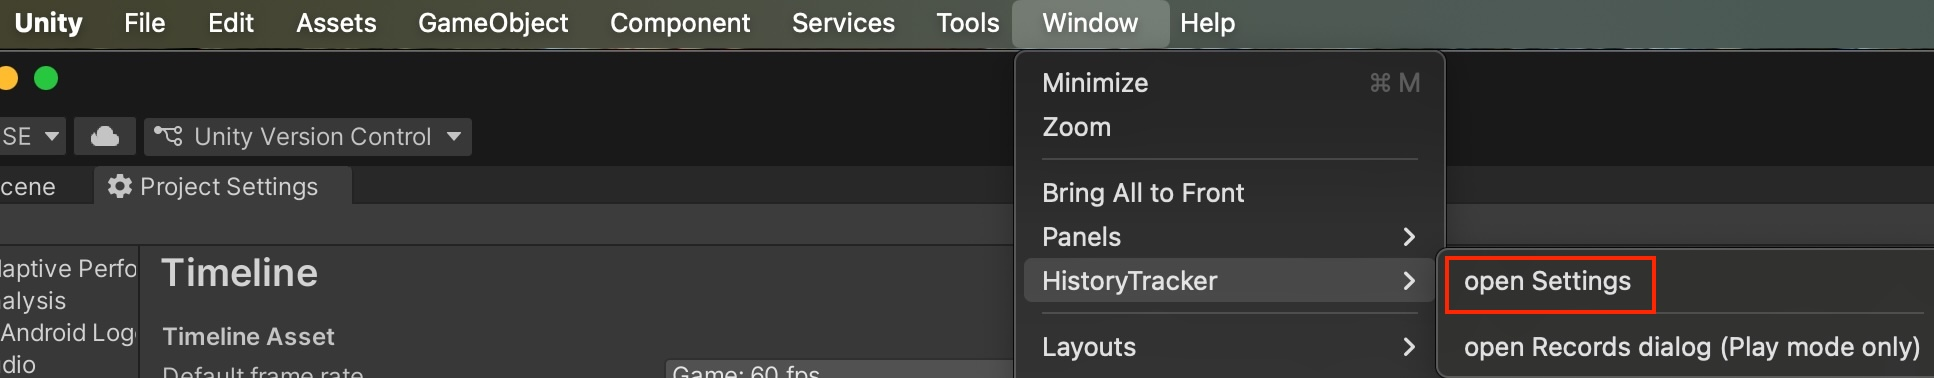
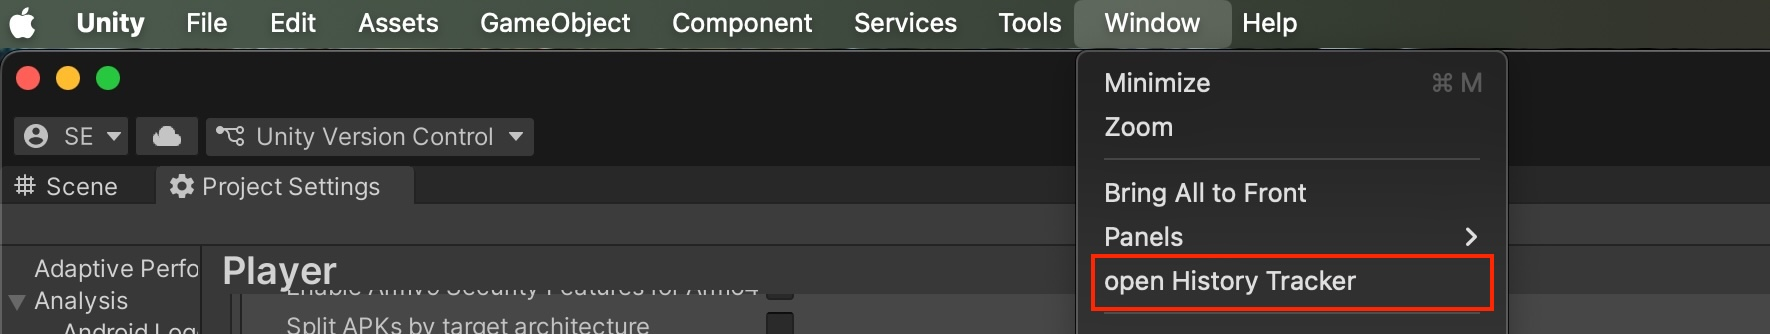
v1.3.0 (#46)
* feat: add workflow to update v1 major tag

* refactor: update IdGenerator to improve type consistency

* feat: add History Recorder

* feat: add Id text

* clean up whitespace in HistRecords model

* add history record updates for test data

* feat: update settings documentation and image

* fix: update plugin settings and menu references

diff --git a/Packages/HistoryTracker/Editor/Scripts/UI/HistSettingsWindow.cs b/Packages/HistoryTracker/Editor/Scripts/UI/HistSettingsWindow.cs
@@ -5,7 +5,7 @@ using UnityEngine;
 
 namespace HistoryTracker.Editor
 {
-    internal class HistSettingsWindow : EditorWindow
+    internal sealed class HistSettingsWindow : EditorWindow
     {
         public const string PackagePath = "Packages/" + _packageName + "/";
         const string _gitURL = "https://github.com/IShix-g/HistoryTracker";
@@ -14,12 +14,23 @@ namespace HistoryTracker.Editor
         const string _packageName = "com.ishix.history.tracker";
         const string _logoPath = PackagePath + "Editor/Textures/historyTrackerLogo.png";
 
-        [MenuItem("Window/HistoryTracker/open Settings", priority = 0)]
+        [MenuItem("Window/open History Tracker", priority = 0)]
         static void ShowWindow()
         {
             var window = GetWindow<HistSettingsWindow>();
-            window.titleContent = new GUIContent("HistoryTracker Settings");
+            window.titleContent = new GUIContent("History Tracker");
             window.Show();
+        }
+
+        string Title
+        {
+            get => EditorPrefs.GetString("HistSettingsWindow_Title");
+            set => EditorPrefs.SetString("HistSettingsWindow_Title", value);
+        }
+        string Description
+        {
+            get => EditorPrefs.GetString("HistSettingsWindow_Description");
+            set => EditorPrefs.SetString("HistSettingsWindow_Description", value);
         }
 
         readonly PackageVersionChecker _versionChecker = new (_gitInstallUrl, _gitBranchName, _packageName);
@@ -28,10 +39,15 @@ namespace HistoryTracker.Editor
         GUIContent _updateIcon;
         GUIContent _helpHeader;
         bool _hasNewVersion;
+        bool _showSettings = true;
+        string _title;
+        string _description;
         readonly CancellationTokenSource _tokenSource = new ();
 
         void OnEnable()
         {
+            _title = Title;
+            _description = Description;
             _logo = AssetDatabase.LoadAssetAtPath<Texture2D>(_logoPath);
             _updateIcon = EditorGUIUtility.IconContent("CloudConnect");
             _helpHeader = EditorGUIUtility.IconContent("Help");
@@ -45,6 +61,8 @@ namespace HistoryTracker.Editor
 
         void OnDestroy()
         {
+            Title = _title;
+            Description = _description;
             _logo = null;
             _updateIcon = null;
             _helpHeader = null;
@@ -129,19 +147,75 @@ namespace HistoryTracker.Editor
             }
 
             _settingsObject.Update();
-            var property = _settingsObject.GetIterator();
-            property.NextVisible(true);
-            while (property.NextVisible(false))
+            _showSettings = EditorGUILayout.Foldout(_showSettings, "Build Setting", true);
+            if (_showSettings)
             {
-                EditorGUILayout.PropertyField(property, true);
+                var style = new GUIStyle()
+                {
+                    padding = new RectOffset(10, 10, 10, 10)
+                };
+                GUILayout.BeginVertical(style);
+                var property = _settingsObject.GetIterator();
+                property.NextVisible(true);
+                while (property.NextVisible(false))
+                {
+                    EditorGUILayout.PropertyField(property, true);
+                }
+                GUILayout.EndVertical();
             }
             _settingsObject.ApplyModifiedProperties();
 
             {
+                var wrapStyle = new GUIStyle(GUI.skin.box)
+                {
+                    padding = new RectOffset(10, 10, 10, 10),
+                    margin = new RectOffset(0, 0, 5, 5)
+                };
+                GUILayout.BeginVertical(wrapStyle);
+                var textStyle = new GUIStyle(GUI.skin.label)
+                {
+                    alignment = TextAnchor.MiddleCenter,
+                    margin = new RectOffset(0, 0, 0, 5)
+                };
+                GUILayout.Label("History Recorder\n(Play mode only)", textStyle);
+
+                EditorGUILayout.HelpBox("(Optional) Add a title and description.", MessageType.Info);
+                _title = EditorGUILayout.TextField("Title", _title);
+                _description = EditorGUILayout.TextField("Description", _description);
+
+                var buttonStyle = new GUIStyle(GUI.skin.button)
+                {
+                    padding = new RectOffset(5, 5, 5, 5),
+                    margin = new RectOffset(0, 0, 10, 0)
+                };
+                if (GUILayout.Button("Save", buttonStyle))
+                {
+                    if (Application.isPlaying)
+                    {
+                        var info = default(HistRecordInfo);
+                        if (!string.IsNullOrEmpty(_title)
+                            || !string.IsNullOrEmpty(_description))
+                        {
+                            info = new HistRecordInfo(_title, _description);
+                        }
+                        Hist.SaveHistory(info);
+                    }
+                    else
+                    {
+                        EditorUtility.DisplayDialog(
+                            "History Tracker",
+                            "Can only be saved in Play mode.",
+                            "OK"
+                        );
+                    }
+                }
+                GUILayout.EndVertical();
+            }
+
+            {
                 var style = new GUIStyle(GUI.skin.label)
                 {
-                    alignment = TextAnchor.MiddleRight,
-                    margin = new RectOffset(0, 0, 5, 0)
+                    alignment = TextAnchor.MiddleRight
                 };
                 var pluginVersion = _versionChecker.IsLoaded ? _versionChecker.LocalInfo.VersionString : "---";
                 GUILayout.Label(pluginVersion, style);

diff --git a/Packages/HistoryTracker/RunTime/Scripts/Utils/IdGenerator.cs b/Packages/HistoryTracker/RunTime/Scripts/Utils/IdGenerator.cs
@@ -9,20 +9,20 @@ namespace HistoryTracker
         const string _base62Chars = "0123456789abcdefghijklmnopqrstuvwxyzABCDEFGHIJKLMNOPQRSTUVWXYZ";
         static readonly DateTime s_epoch = new (2020, 1, 1, 0, 0, 0, DateTimeKind.Utc);
         static int s_sequence;
-        
+
         public static string NewId(int machineId)
         {
             var now = DateTime.UtcNow;
-            var ms = (long)(now - s_epoch).TotalMilliseconds;
+            var ms = (ulong)(now - s_epoch).TotalMilliseconds;
             var seq = Interlocked.Increment(ref s_sequence) & 0xFFFF;
             var timePart = ms & 0xFFFFFFFFFFFFL;
-            var machinePart = (long)(machineId & 0xFFFF);
-            var seqPart = (long)(seq & 0xFFFF);
-            var value = (timePart << 32) | (machinePart << 16) | seqPart;
+            var machinePart = (ulong)(machineId & 0xFFFF);
+            var seqPart = (ulong)(seq & 0xFFFF);
+            var value = (timePart << 24) | (machinePart << 8) | seqPart;
             return ToBase62(value);
         }
-        
-        static string ToBase62(long value)
+
+        static string ToBase62(ulong value)
         {
             if (value == 0)
             {

diff --git a/Packages/HistoryTracker/RunTime/Scripts/Models/HistRecords.cs b/Packages/HistoryTracker/RunTime/Scripts/Models/HistRecords.cs
@@ -13,7 +13,7 @@ namespace HistoryTracker
     {
         [SerializeField] List<HistRecord> _records;
         [SerializeField] int _machineId;
-        
+
         public int Length => _records.Count;
         public bool HasRecords => Length > 0;
         public int MachineId => _machineId;
@@ -34,15 +34,15 @@ namespace HistoryTracker
             var random = new Random(seed);
             _machineId = random.Next(1, 1_000_000);
         }
-        
-        public bool HasRecord(string id) => GetById(id) != null;        
+
+        public bool HasRecord(string id) => GetById(id) != null;
 
         public HistRecord GetAt(int index) => _records[index];
-        
+
         public HistRecord GetReverseAt(int index) => _records[(_records.Count - 1) - index];
 
         public HistRecord GetById(string id) => _records.Find(x => x.Id == id);
-        
+
         public HistRecord Create()
         {
             var id = IdGenerator.NewId(_machineId);
@@ -87,7 +87,7 @@ namespace HistoryTracker
 
         IEnumerator IEnumerable.GetEnumerator() => GetEnumerator();
     }
-    
+
     [Serializable]
     internal sealed class HistRecord
     {

diff --git a/Packages/HistoryTracker/RunTime/Scripts/UI/RecordPopUpHistDialog.cs b/Packages/HistoryTracker/RunTime/Scripts/UI/RecordPopUpHistDialog.cs
@@ -14,6 +14,7 @@ namespace HistoryTracker
         [SerializeField] Button _restoreButton;
         [SerializeField] Button _deleteButton;
         [SerializeField] Button _closeButton;
+        [SerializeField] Text _idText;
         [SerializeField] Text _titleText;
         [SerializeField] Text _descriptionText;
         [SerializeField] Text _dateText;
@@ -45,6 +46,7 @@ namespace HistoryTracker
 
         protected override void OnOpenInternal()
         {
+            _idText.text = "ID:" + Record.Id;
             _titleText.text = Record.Title;
             _descriptionText.text = Record.Description;
             _titleInput.text = Record.Title;

diff --git a/Packages/HistoryTracker/Editor/Scripts/UI/HistoryPopUpHistDialogMenu.cs b/Packages/HistoryTracker/Editor/Scripts/UI/HistoryPopUpHistDialogMenu.cs
@@ -6,7 +6,6 @@ namespace HistoryTracker.Editor
 {
     internal sealed class HistoryPopUpHistDialogMenu
     {
-        [MenuItem("Window/HistoryTracker/open History dialog (Play mode only)")]
         public static void ShowDialog()
         {
             if (Application.isPlaying)

diff --git a/README.md b/README.md
@@ -196,7 +196,7 @@ Displays a list of saved history.
 | ⑥  | Next Page            |
 | ⑦  | Close                |
 
-### 詳細
+### Details
 
 Details and operations for saved game data.
 
@@ -215,23 +215,24 @@ Details and operations for saved game data.
 
 * Note: On actual devices, you cannot edit data generated in the Editor.
 
-## Plugin Settings
+## Plugin Settings / History Recorder
 
 By default, this plugin operates only in the debug environment. You can adjust this in the settings.
 
-### Open via `Window > HistoryTracker > open Settings`
+### Open via `Window > open History Tracker`
 <img src="Docs/menu.jpg" width="700"/>
 
-### Settings
+### Dialog
 
-<img src="Docs/settings.jpg" width="400"/>
+<img src="Docs/settings.jpg" width="450"/>
 
-| No | Description                                         |
-|----|-----------------------------------------------------|
-| ①  | Show GitHub Page (External Link)                    |
-| ②  | Open History Dialog (Runtime only)                  |
-| ③  | Plugin Scope (EditorOnly / DevelopmentBuild / All) |
-| ④  | Use game data saved in Editor on actual device?        |
+| No | Description |
+|----|-----------------------------------------------------------------------------------|
+| ①  | Show GitHub Page (External Link)                                                  |
+| ②  | Open History Dialog (Runtime only)                                                |
+| ③  | Plugin Scope (EditorOnly / DevelopmentBuild / All)                                |
+| ④  | Use game data saved in Editor on actual device?                                   |
+| ⑤  | Enable adding title and description to History Dialog save feature (Runtime only) |
 
 ## Saving Game Data via Script
 

diff --git a/Docs/README_jp.md b/Docs/README_jp.md
@@ -210,23 +210,24 @@ void OnDialogButtonClicked()
 
 * 実機の場合、Editorで生成されたデータを編集できません。
 
-## プラグインの設定
+## プラグインの設定 / History Recorder
 
 このプラグインは、デフォルトでデバック環境でのみ動作します。それを設定で調整できます。
 
-### `Window > HistoryTracker > open Settings`で開く
+### `Window > open History Tracker`で開く
 <img src="menu.jpg" width="700"/>
 
-### 設定
+### ダイアログ
 
-<img src="settings.jpg" width="400"/>
+<img src="settings.jpg" width="450"/>
 
-| No | 説明                                                  |
-|----|-----------------------------------------------------|
-| ①  | GitHubページの表示  (外部リンク)                               |
-| ②  | ヒストリーダイアログを開く (ランタイムのみ)                             |
+| No | 説明                                                   |
+|----|------------------------------------------------------|
+| ①  | GitHubページの表示  (外部リンク)                                |
+| ②  | ヒストリーダイアログを開く (ランタイムのみ)                              |
 | ③  | プラグインの有効範囲 (EditorOnly / DevelopmentBuild / Allから選択) |
-| ④  | Editorで保存したゲームデータを実機で使用するか？                 |
+| ④  | Editorで保存したゲームデータを実機で使用するか？                          |
+| ⑤  | ヒストリーダイアログのセーブ機能にタイトルと説明を追加できるようにしました (ランタイムのみ)      |
 
 ## スクリプトからゲームデータを保存する
 
